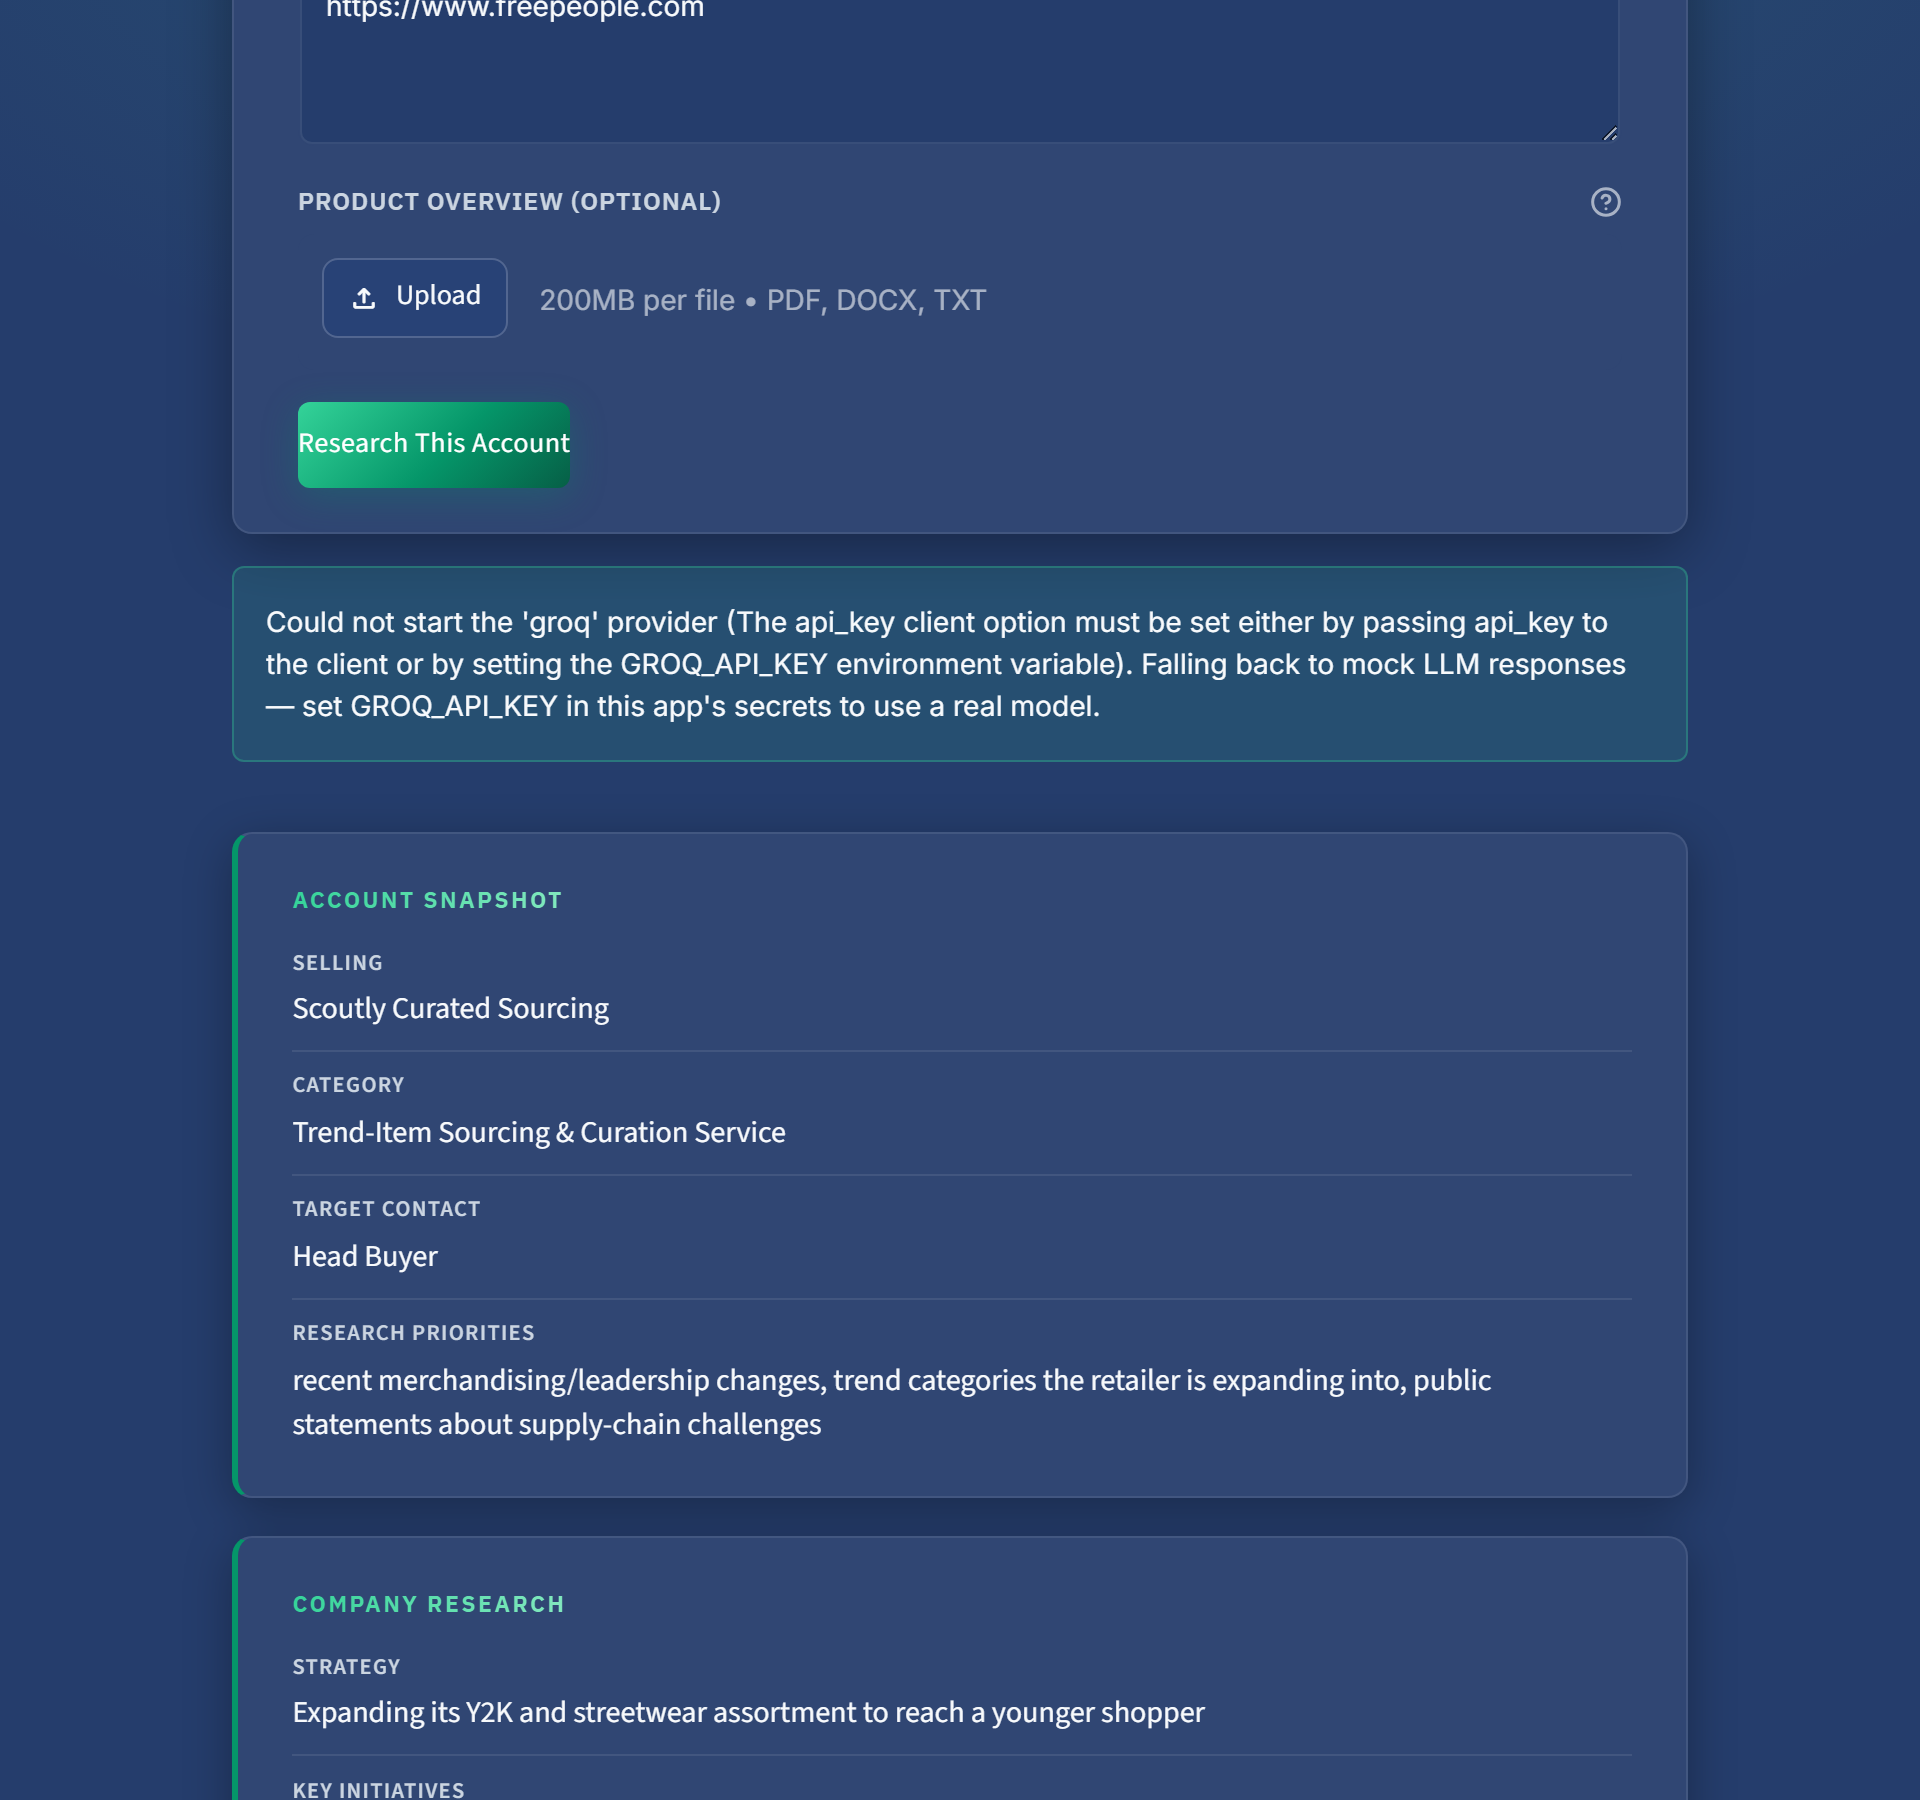
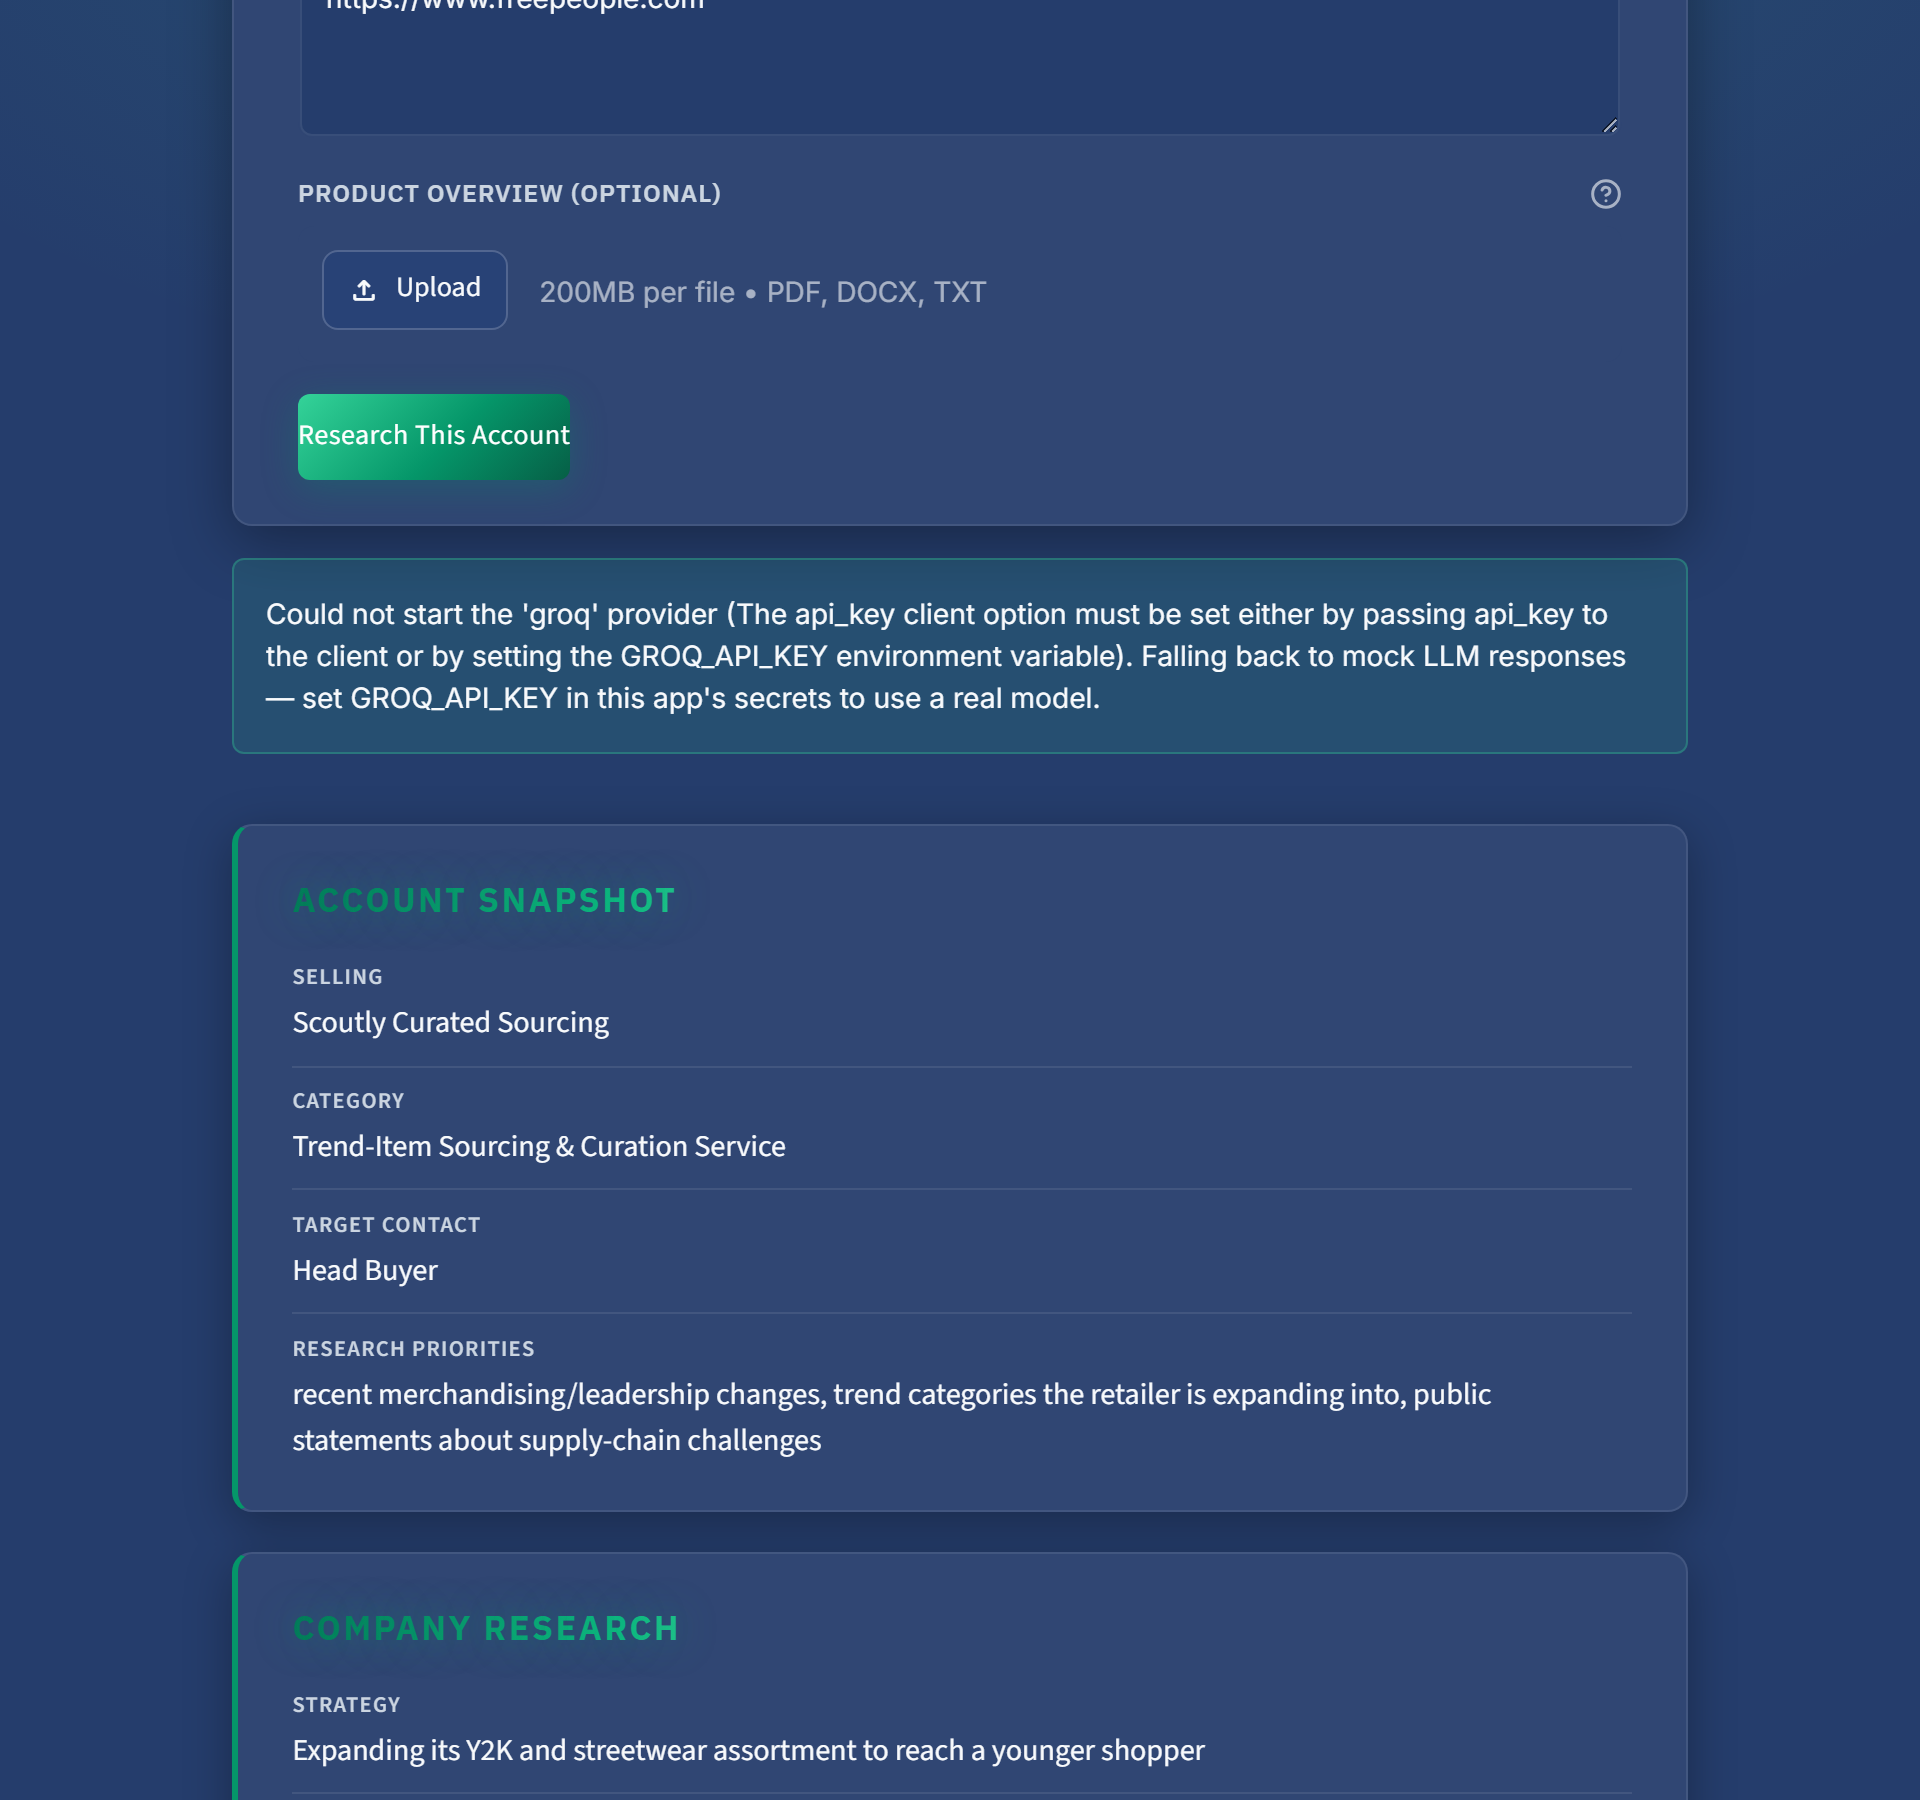
Make panel section headings bigger and deeper/more intense green
Account Snapshot, Company Research, and similar section labels grow
from a small 0.72rem caps label to a 1.05rem heading, with a deeper,
higher-contrast emerald gradient (dark emerald -> bright mint -> dark
emerald) and a soft glow, so they read as real section headings instead
of blending in with the other small caps labels. Screenshot regenerated.

diff --git a/streamlit_app.py b/streamlit_app.py
@@ -64,6 +64,9 @@ THEME_CSS = """
     --sc-accent-pearl: linear-gradient(
         100deg, #34D399 0%, #A7F3D0 30%, #F0FDF9 50%, #A7F3D0 70%, #34D399 100%
     );
+    --sc-accent-pearl-heading: linear-gradient(
+        100deg, #047857 0%, #10B981 25%, #6EE7B7 50%, #10B981 75%, #047857 100%
+    );
     --sc-ink: #F8FAFC;
     --sc-muted: #CBD5E1;
     --sc-panel: #304673;
@@ -199,16 +202,17 @@ div[data-testid="stDownloadButton"] button:hover {
 }
 .sc-panel .sc-label {
     font-family: 'IBM Plex Sans', sans-serif;
-    font-size: 0.72rem;
-    font-weight: 700;
-    letter-spacing: 0.1em;
+    font-size: 1.05rem;
+    font-weight: 800;
+    letter-spacing: 0.08em;
     text-transform: uppercase;
-    margin-bottom: 0.9rem;
-    background: var(--sc-accent-pearl);
+    margin-bottom: 1.1rem;
+    background: var(--sc-accent-pearl-heading);
     -webkit-background-clip: text;
     background-clip: text;
     -webkit-text-fill-color: transparent;
     color: transparent;
+    text-shadow: 0 0 22px rgba(16, 185, 129, 0.45);
 }
 .sc-panel .sc-row {
     margin-bottom: 0.6rem;

diff --git a/README.md b/README.md
@@ -391,7 +391,11 @@ addresses from the server.
   emerald accent itself was brightened and given a subtle pearlescent
   sheen (a soft light-to-white gradient clipped to the text) on section
   labels, links, and small highlighted words, so it reads as a
-  polished, light-catching green rather than a flat fill.
+  polished, light-catching green rather than a flat fill — then the
+  panel section headings (Account Snapshot, Company Research, etc.)
+  were enlarged and switched to a deeper, higher-contrast emerald
+  gradient with a soft glow, so they read as real headings rather than
+  small caps labels.
 
 ## 14. Problems I ran into, and how I fixed them
 
